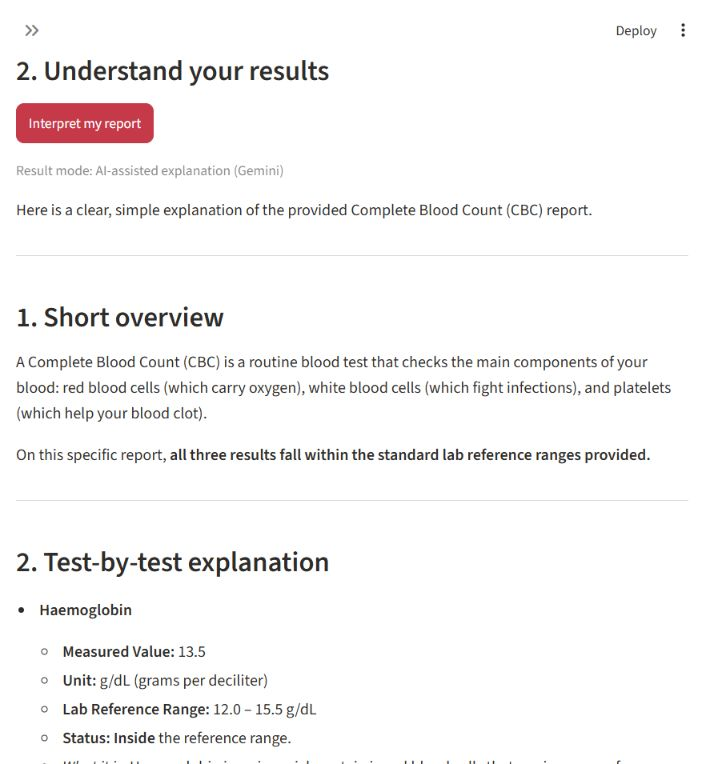
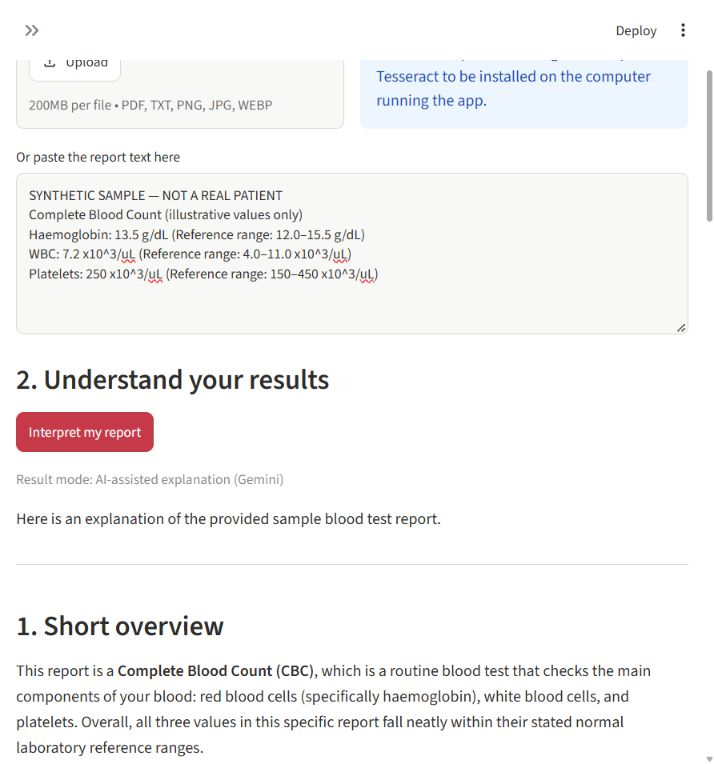
Add full sequence of Gemini run screenshots

diff --git a/README.md b/README.md
@@ -53,15 +53,27 @@ The browser should open the app at the local address shown in the terminal.
 
 ## Screenshots
 
-Both screenshots below were captured from successful local runs with fictional sample data. The AI result used Gemini; the basic summary works without an API key. No API key or real patient information is shown.
+These genuine screenshots were captured from a successful local run using the fictional sample report. The Gemini result is split into consecutive screens so you can follow it from the sample input to the final safety notice. The API key is not shown.
 
 ### Basic mode (no API key)
 
 ![Basic no-key summary](screenshots/basic-mode.jpg)
 
-### AI mode (Gemini)
+### AI mode (Gemini), from top to end
 
-![AI-assisted Gemini interpretation](screenshots/ai-mode.jpg)
+![Gemini run 1 of 7: sample report](screenshots/ai-mode-01.jpg)
+
+![Gemini run 2 of 7: result mode and overview](screenshots/ai-mode-02.jpg)
+
+![Gemini run 3 of 7: test-by-test explanation](screenshots/ai-mode-03.jpg)
+
+![Gemini run 4 of 7: out-of-range context](screenshots/ai-mode-04.jpg)
+
+![Gemini run 5 of 7: questions for a clinician](screenshots/ai-mode-05.jpg)
+
+![Gemini run 6 of 7: limitations](screenshots/ai-mode-06.jpg)
+
+![Gemini run 7 of 7: closing safety notice](screenshots/ai-mode-07.jpg)
 
 ## Suggested demo video (under 5 minutes)
 
